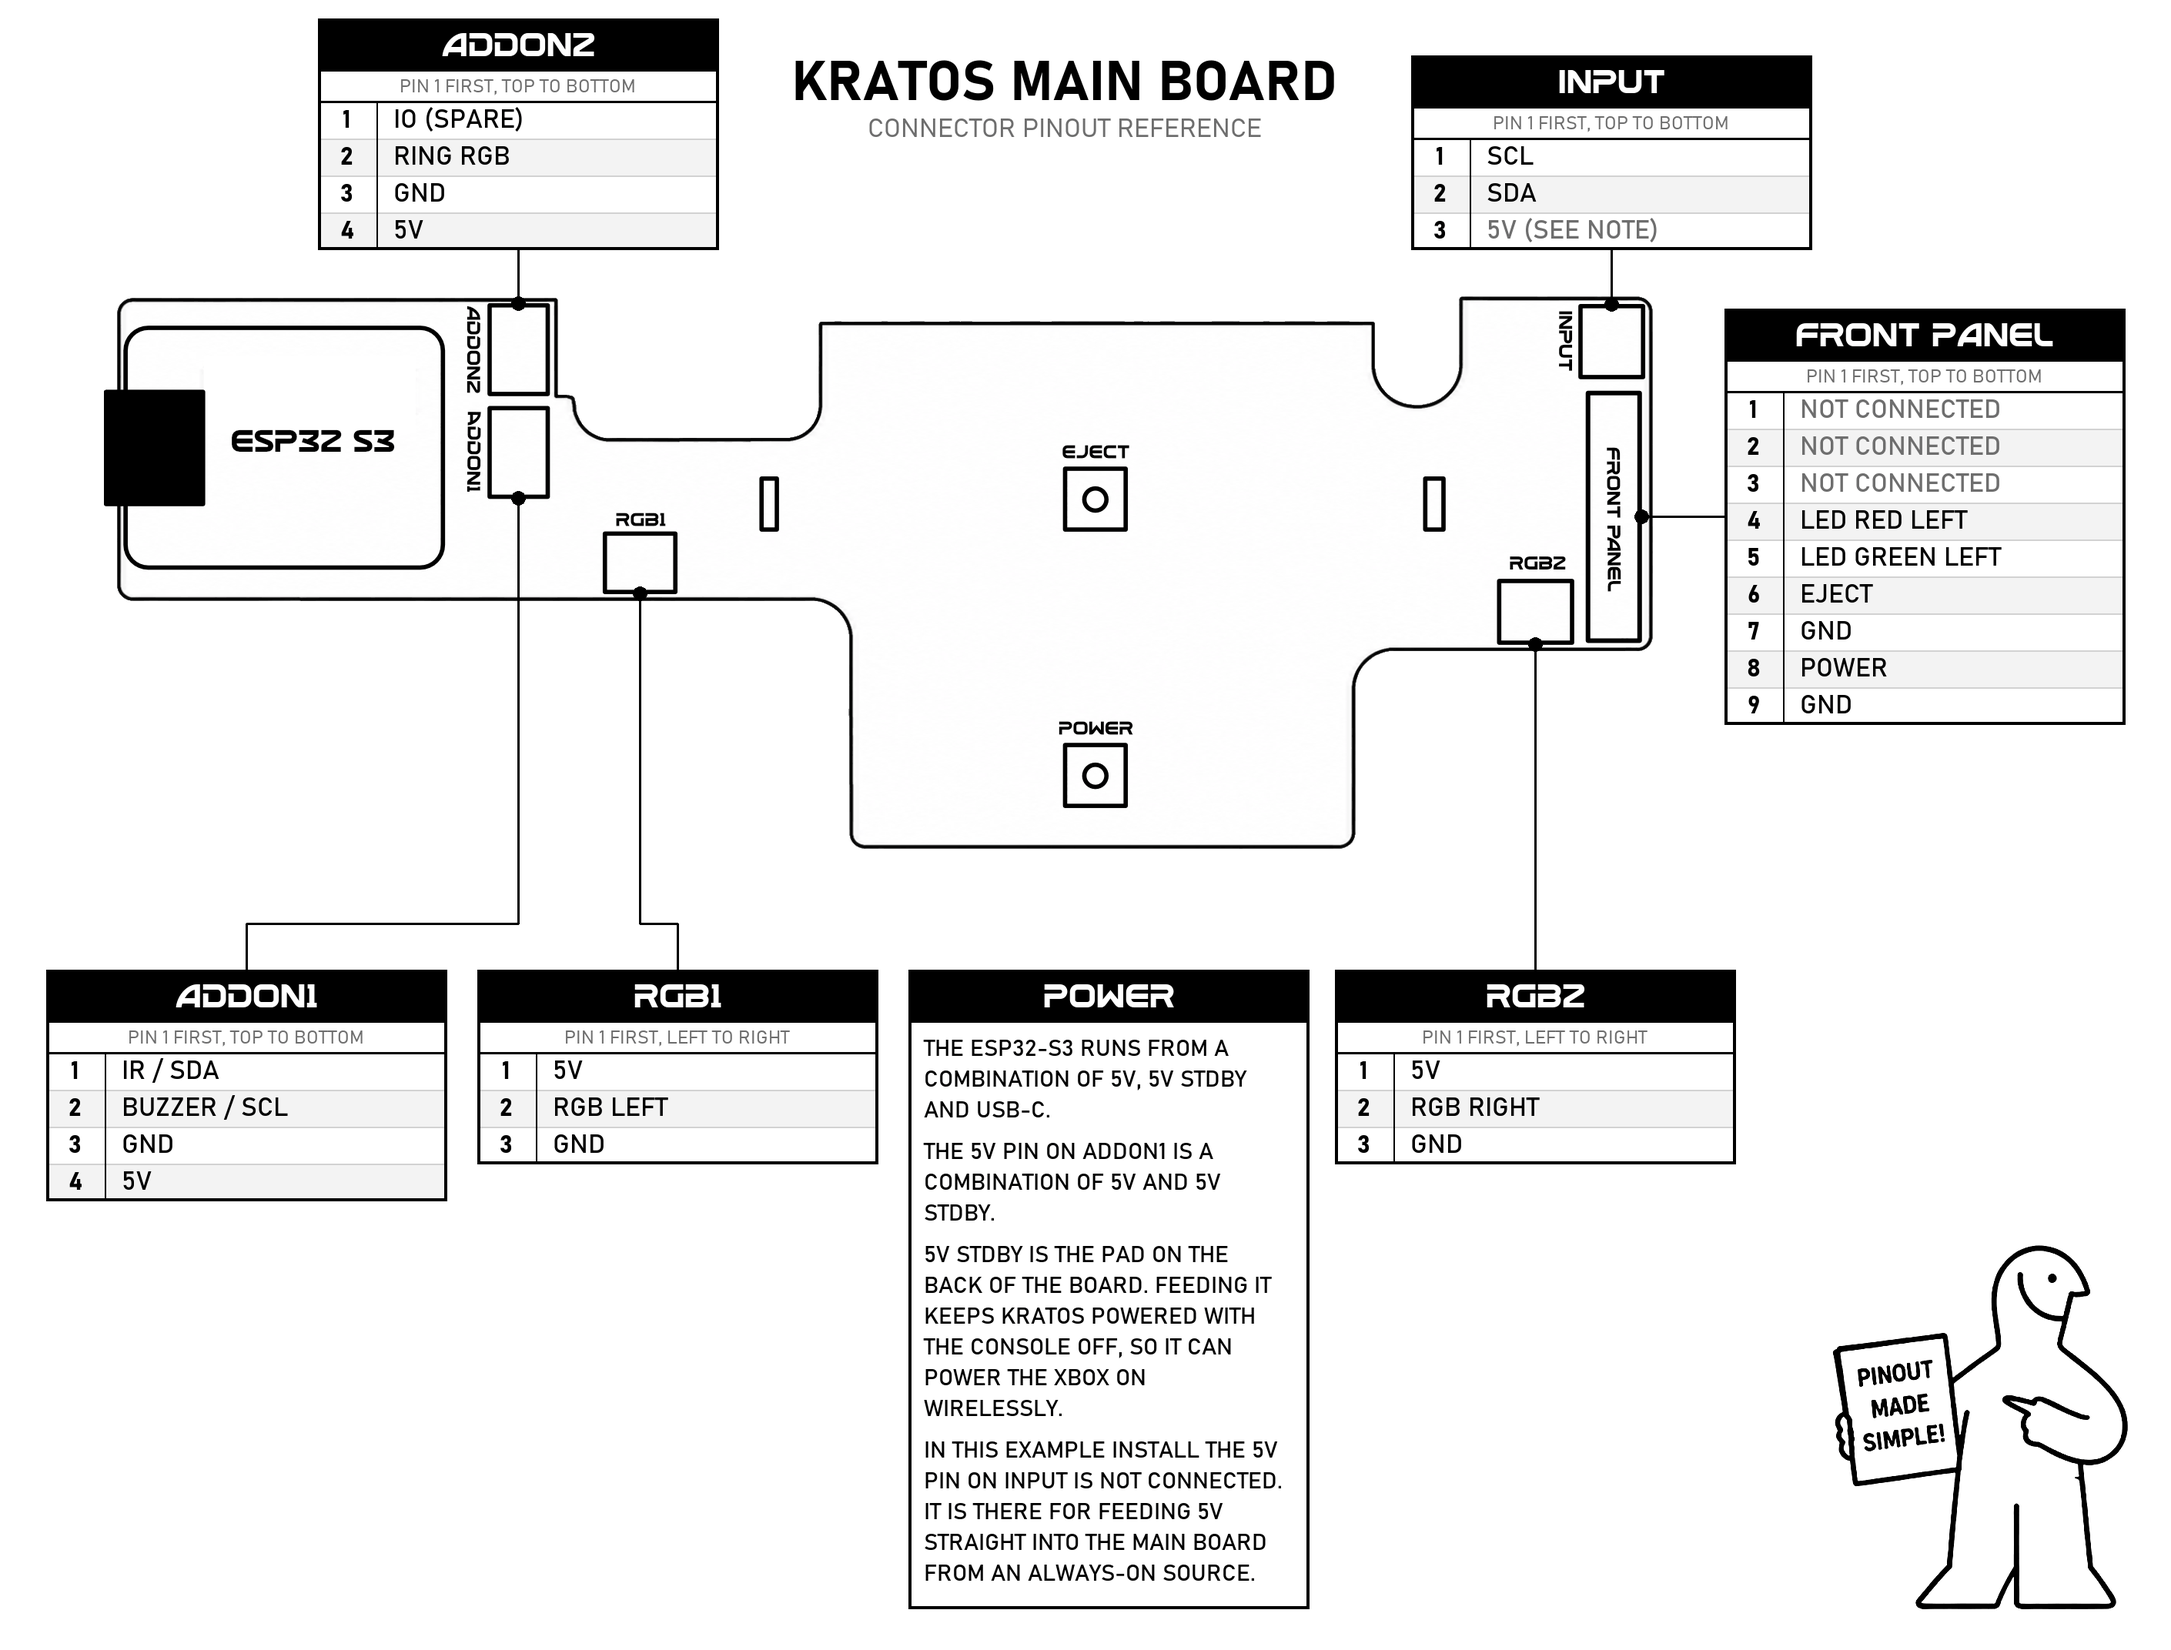
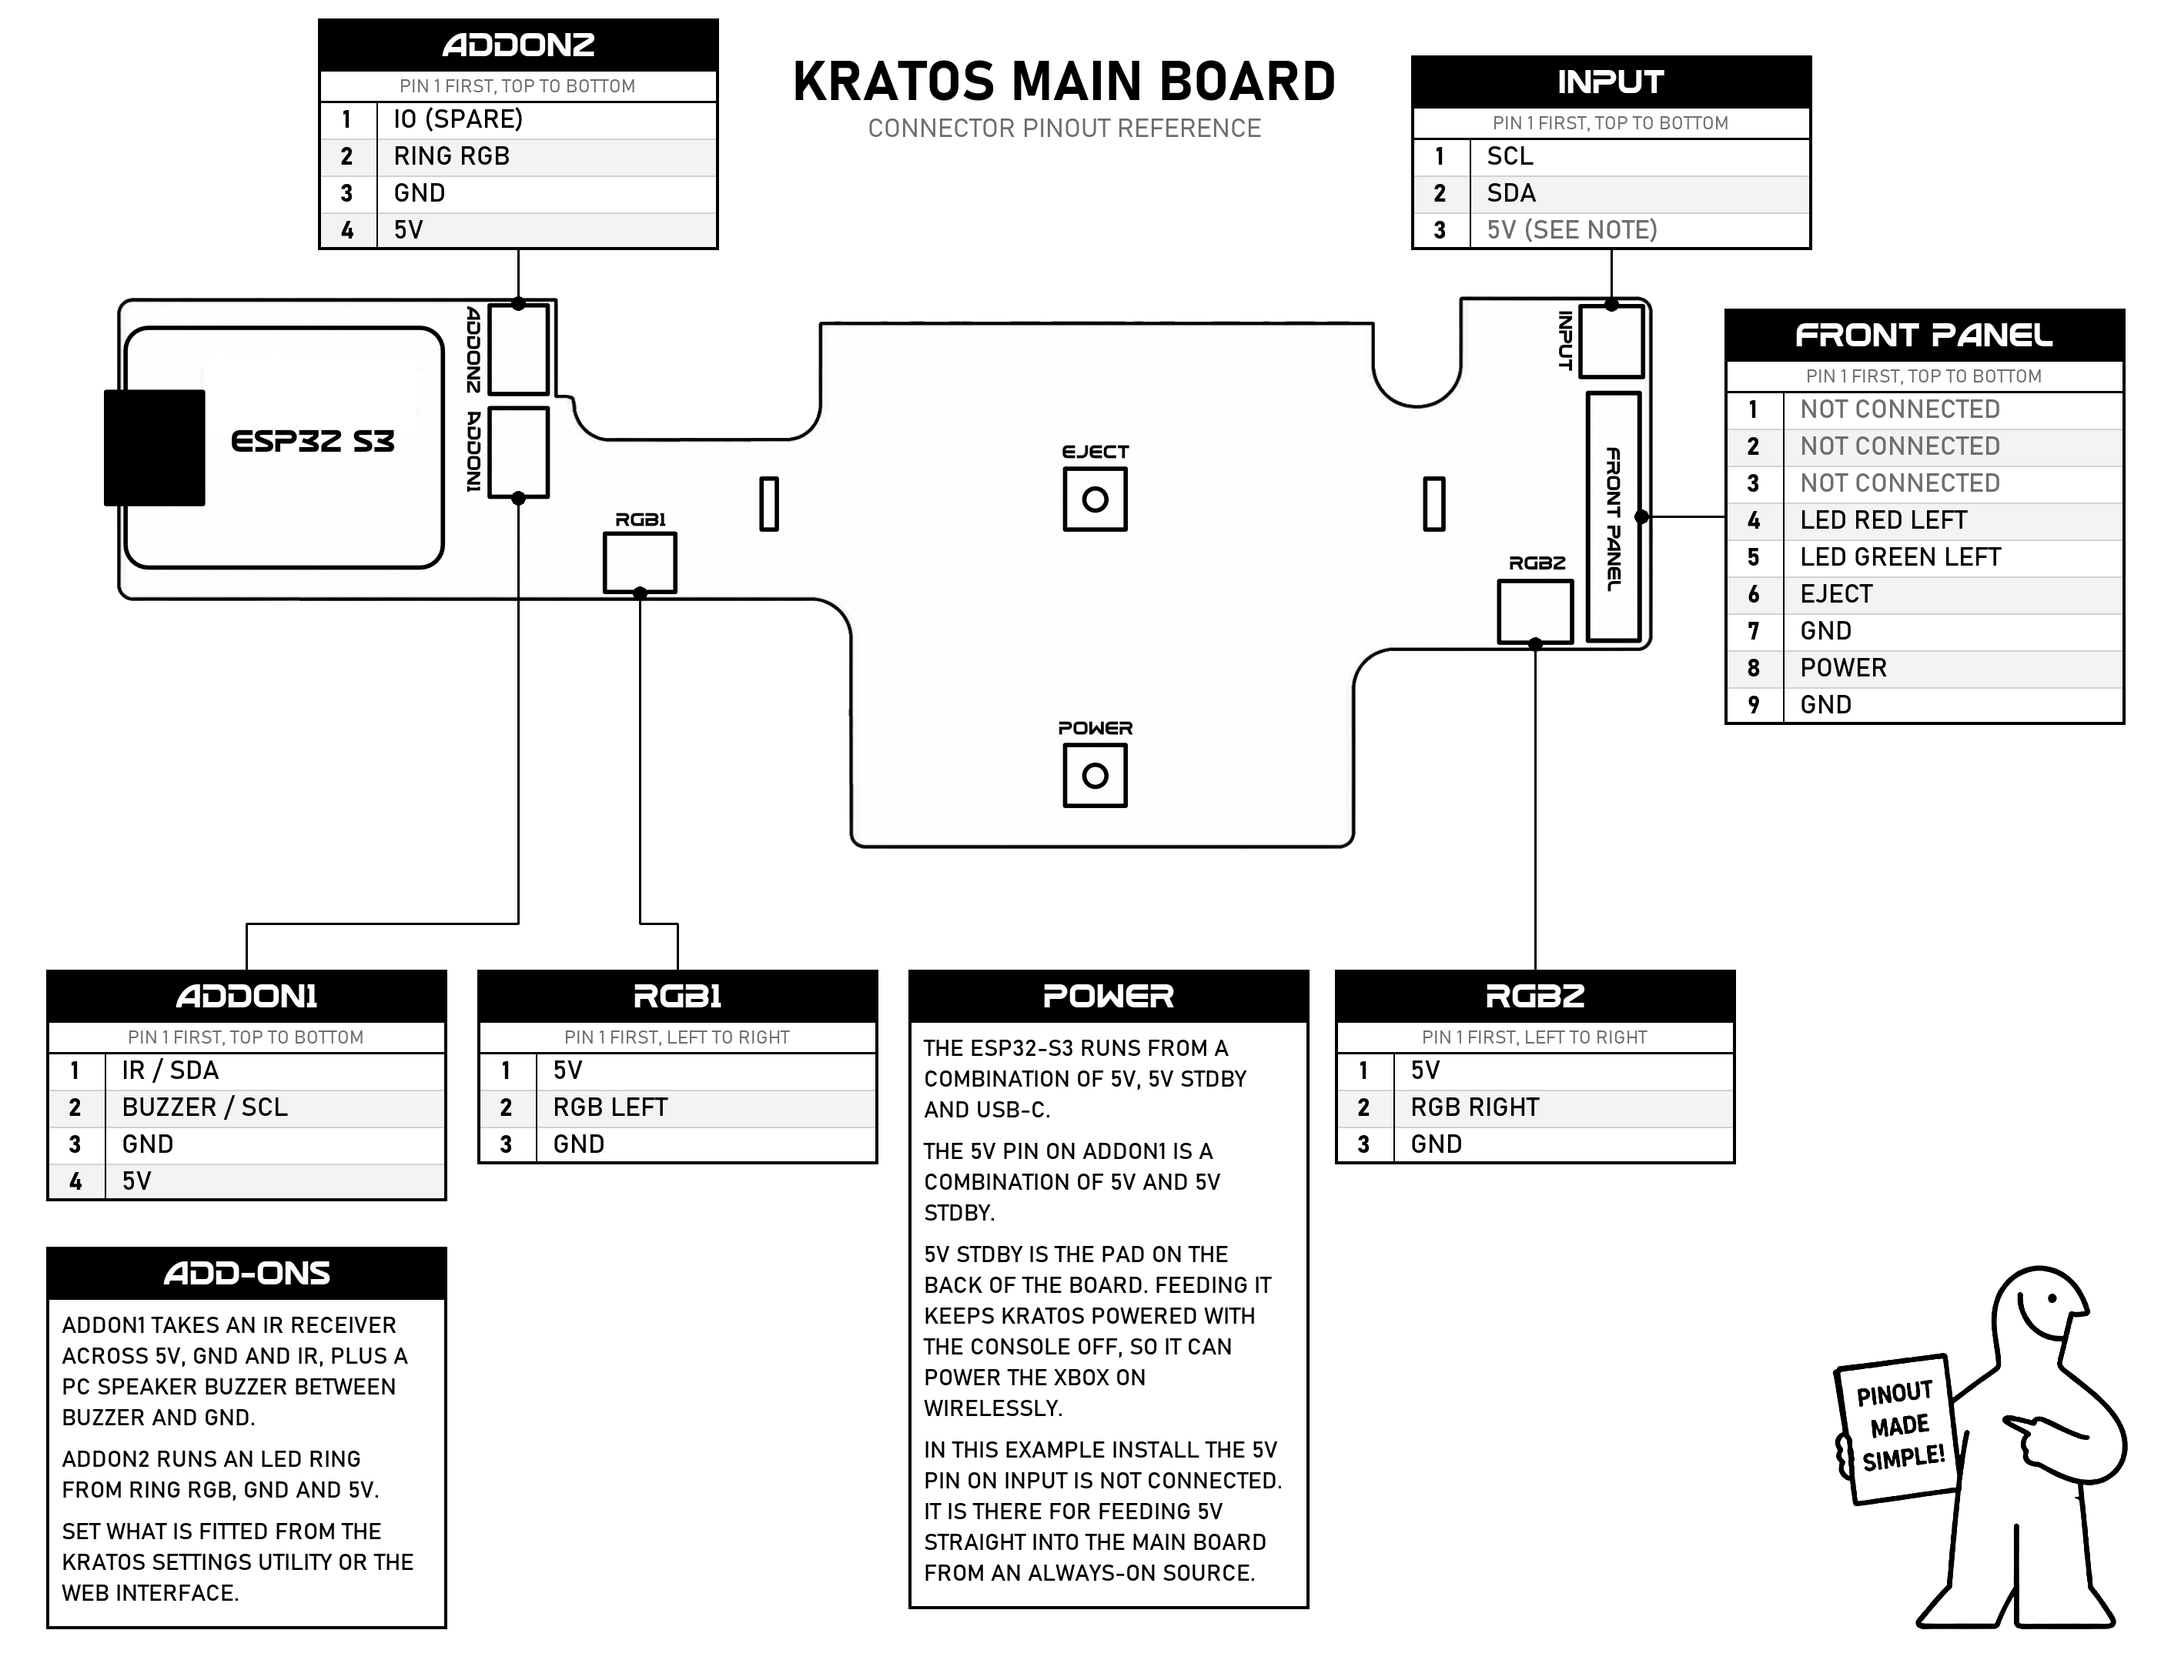
update

diff --git a/tools/generate-pinout.py b/tools/generate-pinout.py
@@ -108,7 +108,16 @@ MAIN_BOARD = {
                 "IN THIS EXAMPLE INSTALL THE 5V PIN ON INPUT IS NOT CONNECTED. IT IS THERE FOR FEEDING 5V STRAIGHT INTO THE MAIN BOARD FROM AN ALWAYS-ON SOURCE.",
             ],
             (1180, 1260),
-        )
+        ),
+        (
+            "ADD-ONS",
+            [
+                "ADDON1 TAKES AN IR RECEIVER ACROSS 5V, GND AND IR, PLUS A PC SPEAKER BUZZER BETWEEN BUZZER AND GND.",
+                "ADDON2 RUNS AN LED RING FROM RING RGB, GND AND 5V.",
+                "SET WHAT IS FITTED FROM THE KRATOS SETTINGS UTILITY OR THE WEB INTERFACE.",
+            ],
+            (60, 1620),
+        ),
     ],
 }
 

diff --git a/README.md b/README.md
@@ -6,27 +6,69 @@ Welcome to the Kratos installation guide! This guide will walk you through insta
 
 KRATOS is the ultimate OGX front button panel replacement, crafted in collaboration between Team Resurgent and EqUiNoX Mods. It packs a modern feature set into a clean, drop-in upgrade for your original Xbox setup.
 
-### Features
+## Features
 
-- Seamless Alexa, Google, Apple assistant integration
-- Buzzer support
-- IR support
-- Future expansion support
-- Fully customizable RGB LEDs for front panel status and controller ports
-- RGB Ring support
-- Unique Kratos RGB synthesizer engine, giving unlimited choice of effects
-- Web API support
-- Personalized front panel LED colors
-- Over-the-air updates for hassle-free upgrades
-- Configurable over a web interface or on the xbox
-- WPS/AP enabled
+### Lighting
 
-### What's Included
+- **The whole front of the console lights up** - fully customizable RGB across the front panel and both controller ports
+- **An optional RGB ring**, running its own effect independently of the panel
+- **An effect engine, not a fixed list of animations** - build a look from a palette of up to ten colours, choose how it moves (a sweep or scanner, random twinkles, or drifting noise like plasma and lava), and shape how each colour fades in, holds and fades out
+- **18 built-in presets** - Aurora, Breathing Rainbow, Candy Cane, Confetti, Cyber, Fire, Halloween, Knight Rider, Lava, Marquee, Ocean, Pacifica, Plasma, Purple Haze, Rainbow, Sunset, Twinkle and Xbox Green
+- **Save your own presets**, and export or import them to share
+- **Your console's real status, in your own colours** - Kratos reads the original green, red and amber status signals and shows them however you like
+- Brightness, hue and effect speed adjust independently for the panel and the ring
+
+### Everyday Use
+
+- **Power and eject work exactly like the original panel** - the buttons are where you expect them and behave the same
+- **Buzzer tones** on power on, power off and eject
+- **Teach it your existing remote** - up to 64 IR buttons can be learned, covering power on, off or toggle, eject, and brightness, hue or speed for the panel, the ring, or both at once
+
+### Voice and Smart Home
+
+- **Shows up in Apple Home, Google Home and Amazon Alexa** over Matter
+- **Three devices, not one** - the front panel as a colour light, the ring as a second colour light, and the Xbox itself as a power switch
+- **Turn your Xbox on by voice**, or from your phone anywhere in the house. This needs the standby feed fitted during installation, covered in [Part 6a](hardware-6a-refitting-the-front-panel-1-0-1-5.md) and [Part 6b](hardware-6b-refitting-the-front-panel-1-6.md)
+- Alexa can also find Kratos on its own for power on and off, without Matter
+
+### On Your Network
+
+- **Three ways to connect** - type in your details, press the WPS button on your router, or let Kratos host its own setup hotspot
+- **Reachable by name** at `http://kratos-xbox.local`, and the hostname is yours to change
+- **Stays awake while the Xbox is off**, which is what lets it answer a voice command or a tap in an app
+
+### Updates and Recovery
+
+- **Over-the-air updates** - new firmware arrives over your network, no cables and no disassembly
+- **A separate recovery firmware** sits alongside the main one, so an update that goes wrong is not a dead panel
+- **Recovery without a computer** - the onboard boot button brings back the setup hotspot or starts WPS if the WiFi details are ever wrong
+
+### Expansion
+
+- **Two add-on headers** - one takes an IR receiver and a PC speaker buzzer, the other drives the LED ring, with a spare IO line left over
+- **Room to grow** - Kratos already carries a setting for a future add-on board that will play audio on power on, power off, eject and more
+- **Longer LED runs** than the five per side behind the bezel - up to 128 per side, and up to 64 on the ring
+- **A separate brightness control** for everything past the bezel, so an external string does not have to match the panel
+
+### Hidden Extras
+
+- There are a few things in the web interface we have not listed here. Have a poke around.
+
+## Configuring Kratos
+
+Three ways in, depending on where you are and what you are doing:
+
+- **The Kratos Settings Utility, on the Xbox** - a controller-driven app that talks to the board over the console's own internal bus, so it works before WiFi is set up. Changes preview on the real LEDs before you save them. This is where [WiFi Setup](software-wifi-setup.md) happens
+- **The web interface, from any browser** - the full set of options from a computer, phone or tablet on your network, plus a web API if you would rather drive Kratos from your own scripts
+- **The Kratos Service Utility, on a PC** - firmware flashing over USB and a serial log viewer. You will not need it for a normal installation; it is there for manual updates and for getting out of trouble
+
+## What's Included
 
 Each Kratos kit includes:
 - 1x Kratos Main Board
 - 2x Kratos Controller Boards
 - 1x Front Panel Harness
+- 1x SMBus Harness - the single-ended 3-wire JST lead for the **INPUT** header
 - 2x Controller Board Connection Cables
 
 ## Installation Guide Sections
@@ -35,7 +77,7 @@ This guide is organized into the following sections:
 
 1. **[Hardware Installation](hardware-installation.md)** - Step-by-step guide for physically installing the Kratos board and components
 2. **[WiFi Setup](software-wifi-setup.md)** - Configure your Kratos WiFi connection
-3. **[Pinout Reference](reference-pinout.md)** - Identify the connectors and buttons on the Kratos Main Board
+3. **[Pinout Reference](reference-pinout.md)** - Identify the connectors, buttons and pads on all three Kratos boards
 
 ## Getting Started
 

diff --git a/reference-pinout.md b/reference-pinout.md
@@ -15,7 +15,10 @@ Left and right are as you face the front of the console, the same convention use
 - **FRONT PANEL** - The 9-pin header for the console's front panel cable. The connector is salvaged from the original front panel board and soldered on in [Part 5](hardware-5-preparing-the-kratos-main-board.md).
 - **INPUT** - The 3-pin header carrying the SMBus lines and 5V. The two SMBus lines are wired to the console's SMBus in [Part 7](hardware-7-connecting-kratos-to-the-smbus.md). The 5V pin is not connected in this install example, so the harness has its 5V wire removed in [Part 5](hardware-5-preparing-the-kratos-main-board.md).
 - **RGB1** and **RGB2** - The two 3-pin JST headers for the Controller Board Connection Cables, one per Kratos Controller Board. The connectors are keyed, so they only go in one way. Fitting these is covered in [Part 5](hardware-5-preparing-the-kratos-main-board.md).
-- **ADDON1** and **ADDON2** - Expansion headers. Nothing in the standard kit plugs into these.
+- **ADDON1** - The header for the IR receiver and the buzzer. An IR receiver wires across **5V**, **GND** and the **IR** pin, and a PC speaker buzzer wires between the **BUZZER** pin and **GND**.
+- **ADDON2** - The header an LED ring runs from, across **RING RGB**, **GND** and **5V**. Pin 1 is a spare IO line for future use.
+
+Nothing in the standard kit plugs into either header. Kratos has a **Fitted add-on** setting for what you have connected - **None**, **Buzzer + IR**, or **External Addon** for a future board that will add audio playback on power on, power off, eject and more. You can set it from the Kratos Settings Utility on the console or from the web interface.
 
 ### Buttons
 
